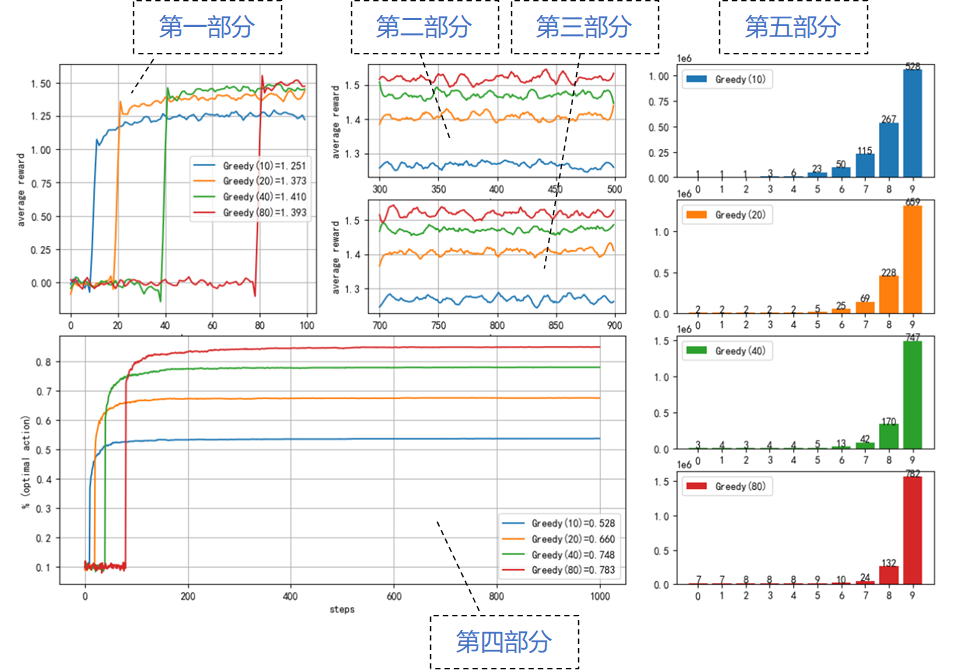
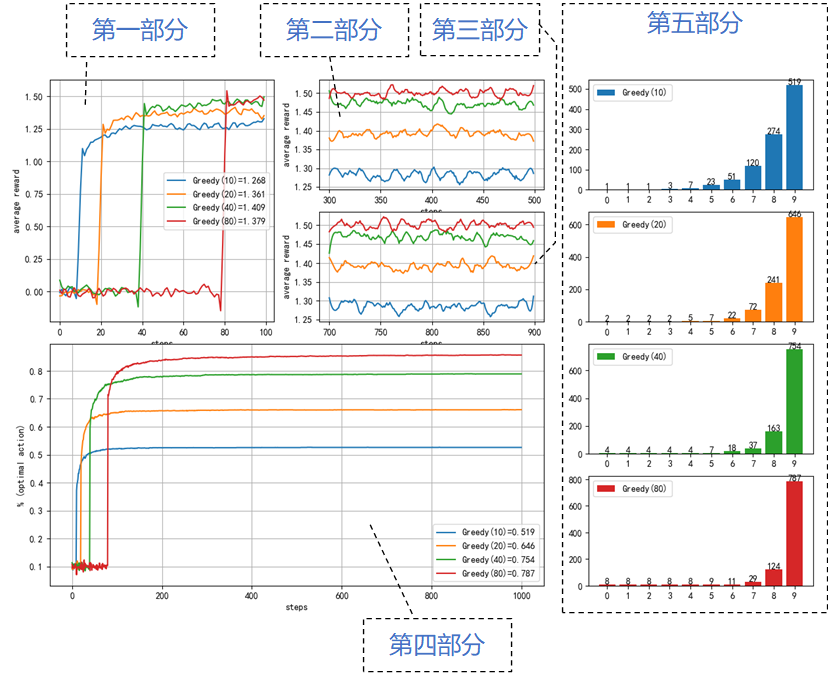
update

Changed region(s): [[0.0, 0.0, 1.0, 1.0], [0.7246, 0.0, 0.936, 0.0596]]

diff --git a/基础教程/A7-强化学习/20-多臂强盗问题 - 从概率计算到模拟验证/src/bandit_20_base.py b/基础教程/A7-强化学习/20-多臂强盗问题 - 从概率计算到模拟验证/src/bandit_20_base.py
@@ -99,7 +99,7 @@ def mp_simulate(bandits, k_arms, runs, steps, labels, title):
     # 绘图
     # 四行三列
     grid = plt.GridSpec(nrows=4, ncols=3)
-    plt.figure(figsize=(15, 20))
+    plt.figure(figsize=(15, 10))
     # 绘制average reward[0:100]
     plt.subplot(grid[0:2, 0])
     for i, mean_rewards in enumerate(all_mean_rewards):     
@@ -140,6 +140,7 @@ def mp_simulate(bandits, k_arms, runs, steps, labels, title):
     plt.legend()
     plt.grid()
     # 绘制所有动作的执行次数
+    all_done_actions = (all_done_actions/runs + 0.5).astype(int)
     X = ["0","1","2","3","4","5","6","7","8","9"]
     colors = ['tab:blue', 'tab:orange', 'tab:green', 'tab:red']
     for i in range(4):
@@ -147,7 +148,7 @@ def mp_simulate(bandits, k_arms, runs, steps, labels, title):
         Y = all_done_actions[i].tolist()
         ax.bar(X, Y, label=labels[i], color=colors[i])
         for x, y in zip(X, Y):   # 在bar上方标出动作执行次数
-            ax.text(x, y, str(int(y/runs)), ha='center')
+            ax.text(x, y, str(y), ha='center')
         ax.legend()
     plt.legend()
 

diff --git a/基础教程/A7-强化学习/20-多臂强盗问题 - 从概率计算到模拟验证/src/bandit_22_greedy.py b/基础教程/A7-强化学习/20-多臂强盗问题 - 从概率计算到模拟验证/src/bandit_22_greedy.py
@@ -17,7 +17,7 @@ class KAB_Greedy(kab_base.KArmBandit):
 
 
 if __name__ == "__main__":
-    runs = 200
+    runs = 2000
     steps = 1000
     k_arms = 10
 

diff --git a/基础教程/A7-强化学习/20-多臂强盗问题 - 从概率计算到模拟验证/4-贪心法.md b/基础教程/A7-强化学习/20-多臂强盗问题 - 从概率计算到模拟验证/4-贪心法.md
@@ -64,7 +64,7 @@ class KAB_Greedy(kab_base.KArmBandit):
     
     比如红色线条，参数为 Greedy(80)，表示 try_steps=80，这个参数设置可以保证后期取得最好的效果，但是前期 80 步内几乎没有收益，而在有些实际应用中，希望马上能看到算法效果，这个参数就不合适了，20 或 40 可能比较合适。
 
-    这一部分的图例是四种参数的总平均收益，其中 Greedy(40) 最好，为 1.410。
+    这一部分的图例是四种参数的总平均收益，其中 Greedy(40) 最好，为 1.409。
 
 - 第二部分：300-500 步内的平均收益。
 
@@ -84,9 +84,12 @@ class KAB_Greedy(kab_base.KArmBandit):
     
     在前三部分中都是用平均收益来衡量，这一部分是来考察最佳动作的选择比例，其它 9 个动作忽略。值越高越好，最大值为 1。它是在 0-1000 区间内的平均数，以红色曲线为例，在该参数设置下，在大概 400 步后，其实已经非常稳定地选择了最佳动作。
 
+    在这一部分中，
+
+
 - 第五部分：所有动作被选择的次数。
 
-    这一部分包括该算法的 4 个不同的参数设置下的每个动作的执行次数。由于我们在 KArmBandit() 类中“偷偷地”对十个动作的收益期望值进行了由小到大的排序，所以，四个柱状图都是梯形的左低右高分布，过渡过程越陡峭越好，靠右端的柱子越高越好。所以红色和绿色较好。
+    这一部分包括该算法的 4 个不同的参数设置下的每个动作的执行次数，10 个柱子上的数字相加应该等于 1000。由于我们在 KArmBandit() 类中“偷偷地”对十个动作的收益期望值进行了由小到大的排序，所以，四个柱状图都是梯形的左低右高分布，过渡过程越陡峭越好，靠右端的柱子越高越好。所以红色和绿色较好。
 
 
 #### 关于探索与利用（EE - Exploration and Exploitation）
@@ -100,7 +103,7 @@ class KAB_Greedy(kab_base.KArmBandit):
 - 它在前期探索的步数非常少（只有10步），就立刻开始利用，实际上它还没有找到最佳动作；
 - 从第一部分来看，它可以很快地获利；
 - 但是从第二部分和第三部分来看，明显后劲不足；
-- 第四部分显示了它的最佳动作选择率只有 53% 左右；
+- 第四部分显示了它的最佳动作选择率只有 52% 左右；
 - 第五部分也印证了它在前 9 个非最佳动作上浪费了很多时间。
 
 在互联网应用中，敏捷开发是大家所推崇的做法，但是每一个好的功能都是经过前期的长时间用户调研后才开始开发应用的，否则就是浪费开发资源。一旦这些功能部署出去，开发者就可以很舒服地获利了。相反，一些急躁的决策者，闭门造车地臆想出了一些功能，快速开发上线，发现用户不买账，然后又不断地修改，造成开发资源的持续浪费，却始终没有获利。
@@ -108,8 +111,9 @@ class KAB_Greedy(kab_base.KArmBandit):
 
 其次，探索也要适可而止，不要花费太多的资源，尤其是在资源有限的情况下。
 
-- 比如参数 Greedy(80)（红色），在第四部分中比其它三个参数好很多，第五部分也是如此，但是在第一部分尝试次数太多，导致了它在 1000 步内的平均收益为 1.393；
-- 再看参数 Greedy(40)（蓝色），首先看它的平均收益为 1.410，在四个参数中最好。虽然它只探索了 40 步就开始
+- 比如参数 Greedy(80)（红色），在第四部分中比其它三个参数好很多，第五部分也是如此，但是在第一部分尝试次数太多，导致了它在 1000 步内的平均收益为 1.379；
+- 再看参数 Greedy(40)（蓝色），首先看它的平均收益为 1.409，在四个参数中最好。虽然它只探索了 40 步就开始了利用，但是在 1000 步这个限定的步长内，它还是超过了看起来比它好的 Greedy(80)。
+- Greedy(10) 和 Greedy(20) 这两个参数，匆忙结束了探索，就想立刻获得回报，“心急吃不上热豆腐”，平均收益只有 1.268,1.361。
 
 
 
